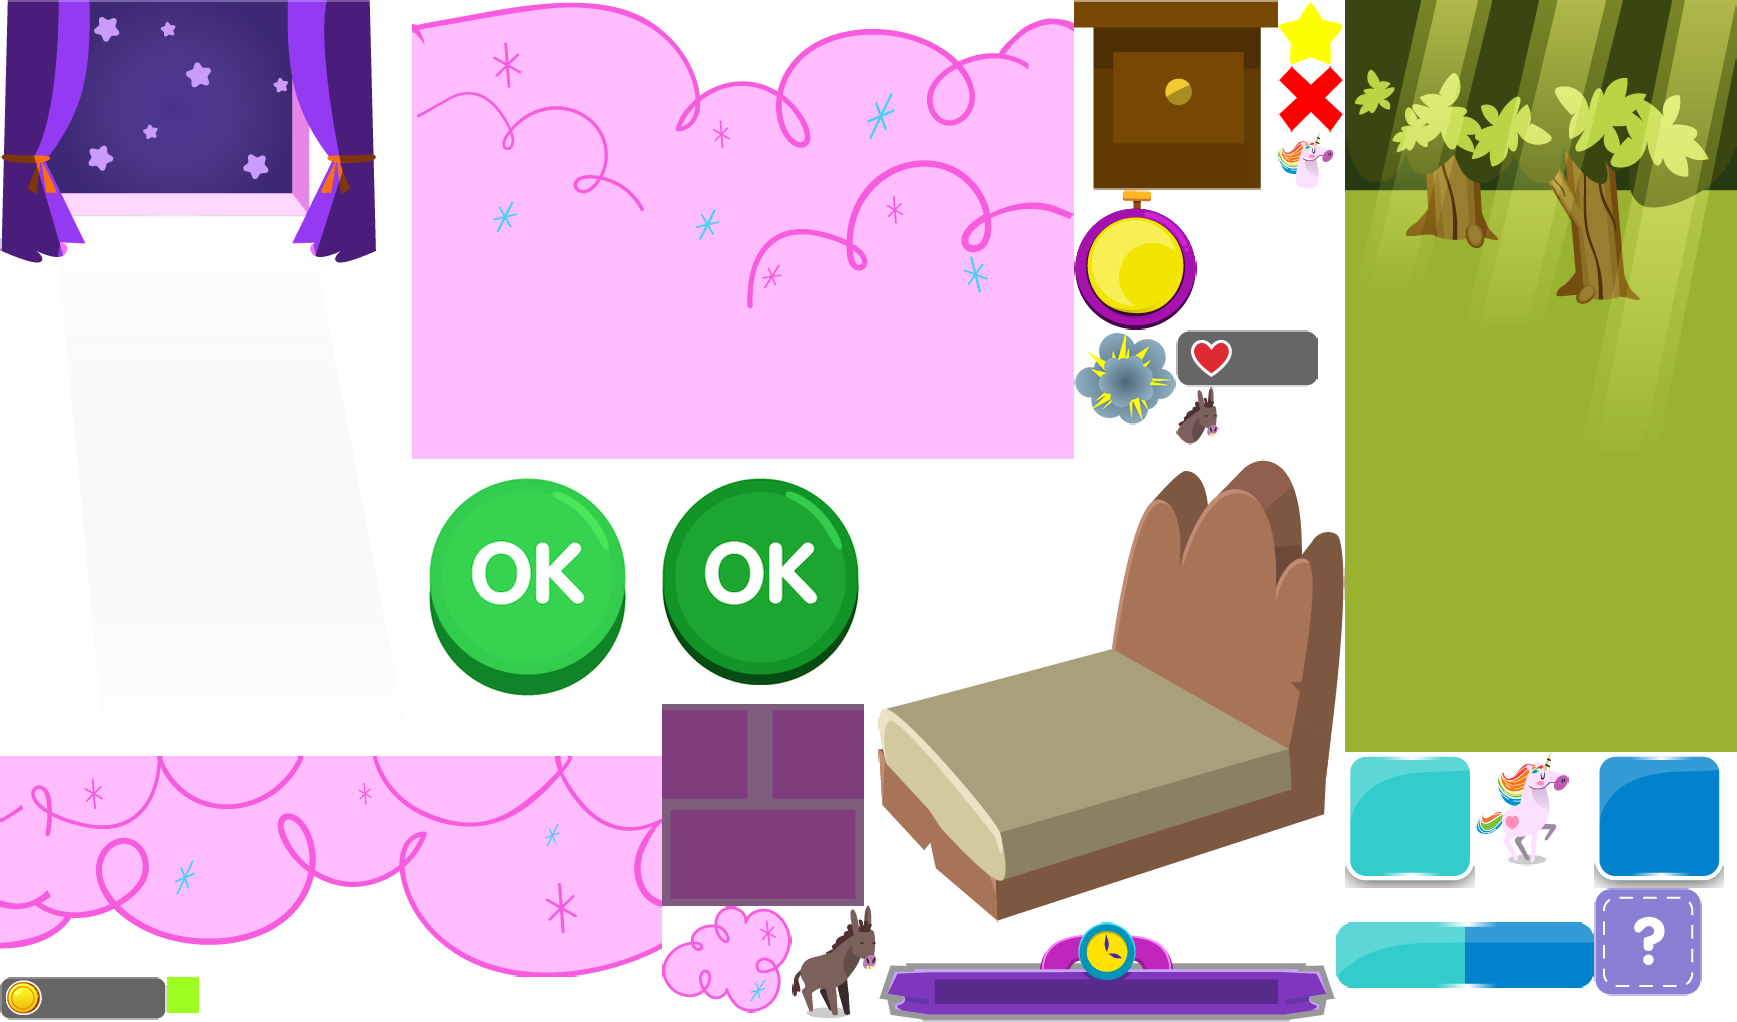
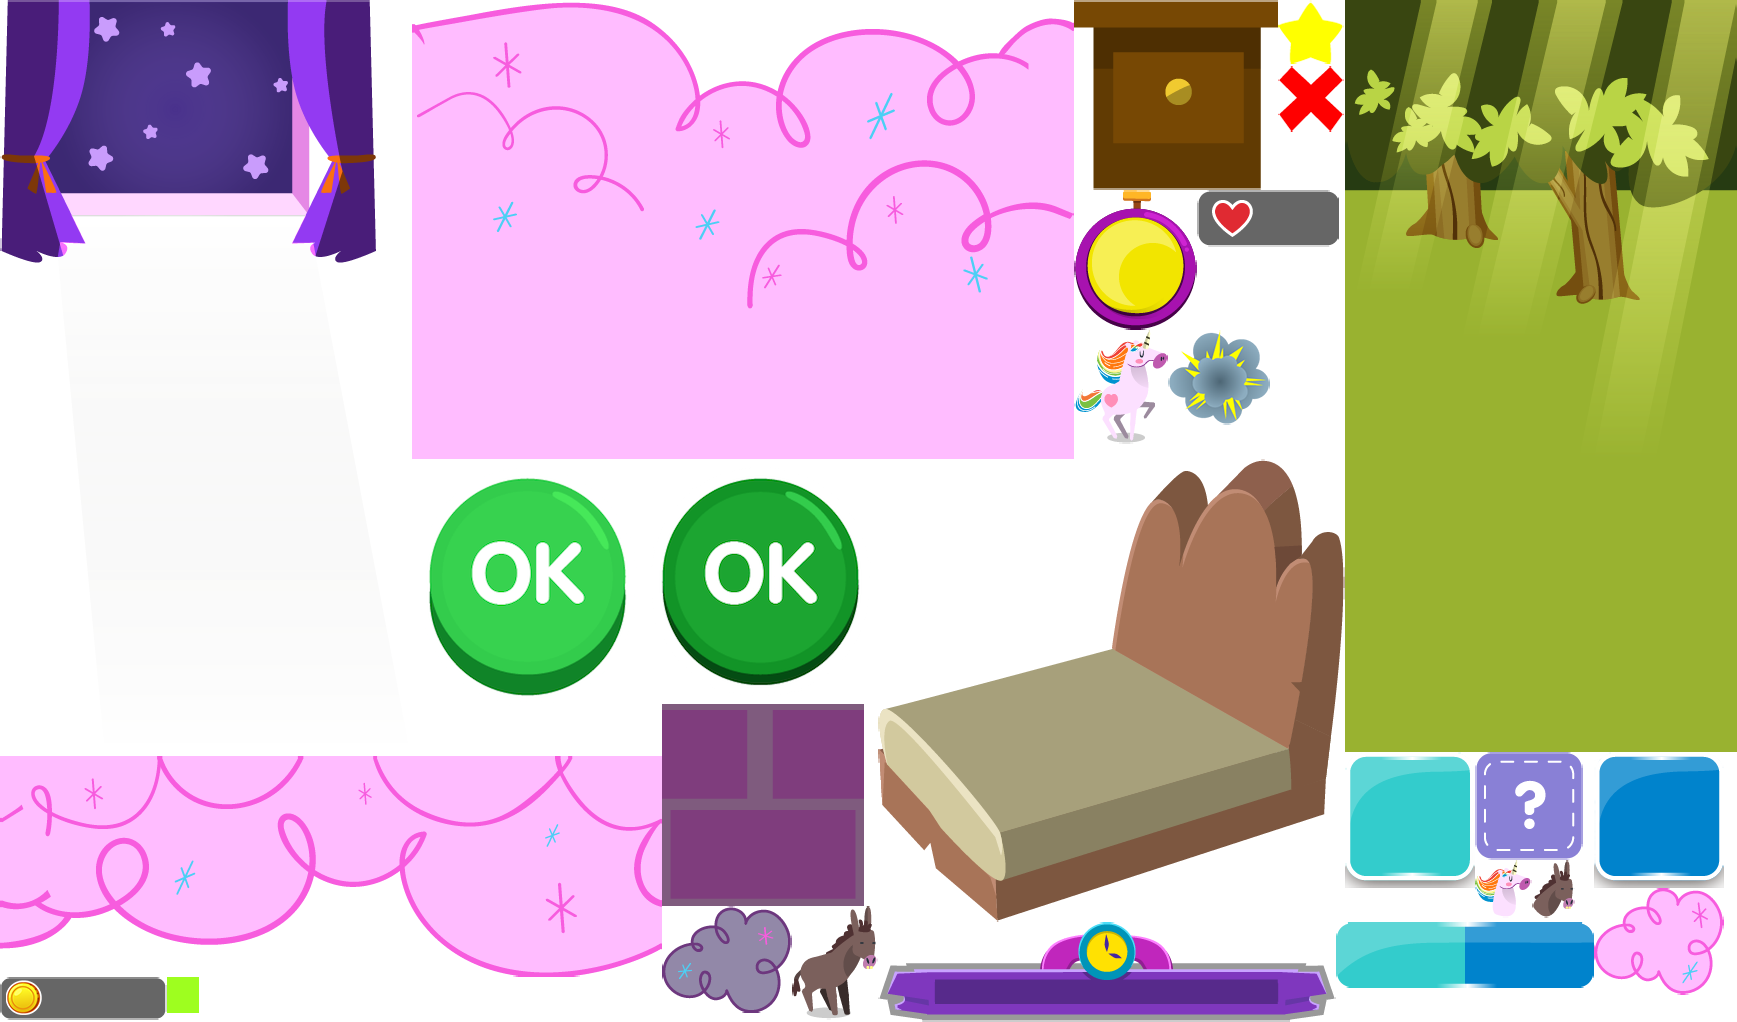
unidream Groups

diff --git a/imagicGames/minigames/uniDream/js/scenes/uni.js b/imagicGames/minigames/uniDream/js/scenes/uni.js
@@ -106,16 +106,6 @@ var uni = function(){
 	var MAX_UNICORNS = 20
 	var MAX_DONKEYS = 20
 
-//	var ROUNDS = [
-//	    {minNumber:3, maxNumber:5},
-//	    {minNumber:5, maxNumber:8},
-//	    {minNumber:5, maxNumber:8, minDonkeys:1, maxDonkeys:3},
-//	    {minNumber:5, maxNumber:9, minDonkeys:1, maxDonkeys:3},
-//	    {minNumber:9, maxNumber:15, minDonkeys:1, maxDonkeys:5},
-//	    {minNumber:15, maxNumber:20},
-//	    {minNumber:12, maxNumber:17, minDonkeys:1, maxDonkeys:3},
-//	    {minNumber:20, maxNumber:20},
-//		{minNumber:9, maxNumber:15, minDonkeys:1, maxDonkeys:5}]
 	
 	var howManyUnicorns;
 	var howManyDonkeys;
@@ -392,28 +382,39 @@ var uni = function(){
 		donkText.text=goalDonk.toString();
 		game.time.events.add(800, function () {
 			
-			if(dificulty>3){
+			if(dificulty>3  && dificulty<=10){
 				startTimer()
-			}
-			
-			dragableUnicorn.inputEnabled=true;
-			dragableUnicorn.input.enableDrag(true);
-			dragableDonkey.inputEnabled=true;
-			dragableDonkey.input.enableDrag(true);
-			dragableUnicorn.input.draggable=true;
-			dragableDonkey.input.draggable=true;
-			if(!tutorial){
+				dragableUnicorn.inputEnabled=true;
+				dragableUnicorn.input.enableDrag(true);
+				dragableDonkey.inputEnabled=true;
+				dragableDonkey.input.enableDrag(true);
+				dragableUnicorn.input.draggable=true;
+				dragableDonkey.input.draggable=true;
 				buttonImg.inputEnabled=true;
 				donkContainer.tint=0xffffff
 				dragableDonkey.tint=0xffffff	
-			}else if(tutorial){
-				dragableDonkey.input.draggable=false;
-				hand.alpha=1;
-				containers.add(hand)
-				hand.x=dragableUnicorn.x+100;
-				hand.y=dragableUnicorn.y+100;
-				handAnimation=game.add.tween(hand).to({x:rectTrigger.x+200,y:rectTrigger.y-100},2000,Phaser.Easing.Linear.In,true).loop(true);
-				
+			}else if(dificulty>10){ 
+				thirdDificulty()
+			}else{
+				dragableUnicorn.inputEnabled=true;
+				dragableUnicorn.input.enableDrag(true);
+				dragableDonkey.inputEnabled=true;
+				dragableDonkey.input.enableDrag(true);
+				dragableUnicorn.input.draggable=true;
+				dragableDonkey.input.draggable=true;
+				if(!tutorial){
+					buttonImg.inputEnabled=true;
+					donkContainer.tint=0xffffff
+					dragableDonkey.tint=0xffffff	
+				}else if(tutorial){
+					dragableDonkey.input.draggable=false;
+					hand.alpha=1;
+					containers.add(hand)
+					hand.x=dragableUnicorn.x+100;
+					hand.y=dragableUnicorn.y+100;
+					handAnimation=game.add.tween(hand).to({x:rectTrigger.x+200,y:rectTrigger.y-100},2000,Phaser.Easing.Linear.In,true).loop(true);
+
+				}
 			}
 		})
 	}
@@ -738,6 +739,7 @@ var uni = function(){
 			}
 		})
 			game.add.tween(brightRect).to({alpha:1},exitSpeed-1000,Phaser.Easing.linear,true).yoyo(true);
+		
 			game.time.events.add(exitSpeed+200,function(){
 				for(var destroyAnimals=0; destroyAnimals<animalsInStage.length; destroyAnimals++){
 					animalsInStage[destroyAnimals].destroy();
@@ -755,42 +757,53 @@ var uni = function(){
 		for(var fill=0; fill<manyAnimals; fill++){
 			
 			animal=game.rnd.integerInRange(0,1);
-			if(animal)
+			if(animal==0){
+				var unicorn=createSpine("unicorn","normal")
+				animalsInStage.push(unicorn);
+				animalsInStage[fill].tag="uni";
+			}else if(animal==1){
+				var donkey=createSpine("donkey","normal")
+				animalsInStage.push(donkey);
+				animalsInStage[fill].tag="donkey";
+			}
+			animalsInStage[fill].scale.setTo(0.7,0.7);
+			this.rect = new Phaser.Graphics(game);
+			this.rect.beginFill('#000000', 0);
+			this.rect.drawRect(0, 0, 90, 90);
+			this.rect.endFill();
+			animalsInStage[fill].x=-200;
+			animalsInStage[fill].y=positionY[fill];
 			
-			animalsInStage.push(unicorn);
-			animalsInStage[fill]=
+			animalsInStage[fill].container= this.game.add.image(animalsInStage[fill].x-50, animalsInStage[fill].y-100);
 			animalsInStage[fill].container.addChild(this.rect);
 			animalsInStage[fill].container.index=fill;
 			animalsInStage[fill].container.inputEnabled=true;
 			animalsInStage[fill].container.events.onInputDown.add(discardAnimal,this);
+			animalsInStage[fill].setAnimation(["jump"]);
+			
+			sound.play("horse_gallop")
+			game.add.tween(animalsInStage[fill]).to({x:positionX[fill],y:positionY[fill]}, 1500, Phaser.Easing.Cubic.InOut, true)
+			game.add.tween(animalsInStage[fill].container).to({x:positionX[fill]-50,y:positionY[fill]-100}, 1500, Phaser.Easing.Cubic.InOut, true)
+			
+			
+			dreamGroup.add(animalsInStage[fill]);
 		}
-			
-			var index=animalsInStage.length;
-		if(animalsInStage.length<maxNumber){
-			sound.play("place")
-			if(obj.tag=="uni"){
-				var unicorn=createSpine("unicorn","normal")
-				
-				unicorn.scale.setTo(0.7,0.7);
-				animalsInStage[index].tag="uni";
-			}else if(obj.tag=="donk"){
-				var donkey=createSpine("donkey","normal")
-				animalsInStage.push(donkey);
-				animalsInStage[index].tag="donkey";
-				donkey.scale.setTo(0.7,0.7);
+		game.time.events.add(1550, function () {
+			buttonImg.inputEnabled=true;
+			for(var idle=0; idle<animalsInStage.length; idle++){
+				animalsInStage[idle].setAnimation(["idle"]);
 			}
-			
-			
-				
-			animalsInStage[index].container.addChild(this.rect);
-			animalsInStage[index].container.index=index;
-			if(!tutorial){
-				animalsInStage[index].container.inputEnabled=true;
-				animalsInStage[index].container.events.onInputDown.add(discardAnimal,this);
-			}
-			dreamGroup.add(animalsInStage[index]);
-			dreamGroup.add(nubesAparecer[index]);
-		}
+			dragableUnicorn.inputEnabled=true;
+			dragableUnicorn.input.enableDrag(true);
+			dragableDonkey.inputEnabled=true;
+			dragableDonkey.input.enableDrag(true);
+			dragableUnicorn.input.draggable=true;
+			dragableDonkey.input.draggable=true;
+			buttonImg.inputEnabled=true;
+			donkContainer.tint=0xffffff
+			dragableDonkey.tint=0xffffff
+			startTimer()
+		})
 	}
 	
 	function createUniUI() {
@@ -1066,13 +1079,15 @@ var uni = function(){
 				animalsInStage.push(unicorn);
 				unicorn.scale.setTo(0.7,0.7);
 				animalsInStage[index].tag="uni";
+				nubesAparecer[index]=game.add.sprite(positionX[index],positionY[index],"atlas.uni","cloud_small");
 			}else if(obj.tag=="donk"){
 				var donkey=createSpine("donkey","normal")
 				animalsInStage.push(donkey);
 				animalsInStage[index].tag="donkey";
 				donkey.scale.setTo(0.7,0.7);
+				nubesAparecer[index]=game.add.sprite(positionX[index],positionY[index],"atlas.uni","cloud_donk");
 			}
-			nubesAparecer[index]=game.add.sprite(positionX[index],positionY[index],"atlas.uni","cloud_small");
+			
 			nubesAparecer[index].scale.setTo(0,0);
 			nubesAparecer[index].anchor.setTo(0.5,0.8);
 			game.add.tween(nubesAparecer[index].scale).to({x: 1,y:1}, 10, Phaser.Easing.Cubic.InOut, true)
@@ -1102,7 +1117,7 @@ var uni = function(){
 			}
 			animalsInStage[index].x=positionX[index];
 			animalsInStage[index].y=positionY[index];
-			animalsInStage[index].container= this.game.add.image(animalsInStage[index].x-50, animalsInStage[index].y-100);;
+			animalsInStage[index].container= this.game.add.image(animalsInStage[index].x-50, animalsInStage[index].y-100);
 			this.rect = new Phaser.Graphics(game);
 			this.rect.beginFill('#000000', 0);
 			this.rect.drawRect(0, 0, 90, 90);

diff --git a/newStructure/minigames/uniDream/js/scenes/uni.js b/newStructure/minigames/uniDream/js/scenes/uni.js
@@ -137,6 +137,7 @@ var uni = function(){
 	var total=20;
 	var timeValue
 	var coins
+	var buro
 	var buttonImg
 	var rectTrigger
 	var quantNumber
@@ -149,6 +150,7 @@ var uni = function(){
 	var donkIco
 	var handAnimation
 	var unicornList
+	var clockImg
 	var donkeyList
 	var animationText
 	var gameGroup
@@ -422,7 +424,6 @@ var uni = function(){
 	function missPoint(){
 
 		sound.play("wrong")
-
 		lives--;
 		heartsGroup.text.setText('X ' + lives)
 
@@ -489,6 +490,12 @@ var uni = function(){
 		game.add.tween(donkText).to({alpha:1}, 800, Phaser.Easing.Linear.In, true,1200)
 		game.add.tween(uniText).to({alpha:1}, 800, Phaser.Easing.Linear.In, true,1200)
 		showDream.onComplete.add(function () {
+			dreamGroup.add(bed)
+			dreamGroup.add(buro)
+			dreamGroup.add(clockCounter)
+			dreamGroup.add(buttonImg)
+			dreamGroup.add(theffanie)
+			
 			sound.play("brightTransition")
 			game.add.tween(dreamGroup.bright).to({alpha: 1},1000,Phaser.Easing.Cubic.Out,true).yoyo(true)
 			var bgAppear = game.add.tween(dreamGroup.bg).to({alpha:1}, 1000, Phaser.Easing.Cubic.In, true)
@@ -710,13 +717,18 @@ var uni = function(){
 		if(goalUni==countUni && goalDonk==countDonk && !timer){
 			rightReaction();
 		}else{
-			missPoint();
+			if(lives>0)missPoint();
 			timer=false;
 			sceneGroup.wrongParticle.x = clockCounter.centerX
 			sceneGroup.wrongParticle.y = clockCounter.centerY
 			sceneGroup.wrongParticle.start(true, 1000, null, 5)
 			if(lives==0){
 				wrongReaction();
+				sceneGroup.add(bed)
+				sceneGroup.add(buro)
+				sceneGroup.add(clockCounter)
+				sceneGroup.add(buttonImg)
+				sceneGroup.add(theffanie)
 			}else{
 				//theffanie.setAnimation("NIGHTMARE")
 				game.time.events.add(700, function () {
@@ -891,7 +903,7 @@ var uni = function(){
 		dreamGroup.add(uniText)
 		dreamGroup.add(donkText)
 		
-		var buro = sceneGroup.create(0,0,"atlas.uni", "buro")
+		buro = sceneGroup.create(0,0,"atlas.uni", "buro")
 		buro.x = game.world.centerX + 170
 		buro.y = game.world.height
 		buro.anchor.setTo(0.5, 1)
@@ -918,7 +930,7 @@ var uni = function(){
 		
 		
 
-		var clockImg = clockCounter.create(0,0,"atlas.uni","clockImg")
+		clockImg = clockCounter.create(0,0,"atlas.uni","clockImg")
 		clockImg.anchor.setTo(0.5, 0.5)
 		game.add.tween(clockImg.scale).to({x:1.05, y:0.95}, 300, Phaser.Easing.Sinusoidal.Out, true).yoyo(true).loop(true)
 
@@ -931,19 +943,24 @@ var uni = function(){
 		clockCounter.numberText = numberText
 		clockCounter.number = 0
 		clockCounter.alpha=1;
-		var button = game.add.group()
-		button.x = clockCounter.x
-		button.y = clockCounter.y+5
-		sceneGroup.add(button)
+//		var button = game.add.group()
+//		button.x = clockCounter.x
+//		button.y = clockCounter.y+5
+//		sceneGroup.add(button)
 
-		buttonImg = button.create(0,0,"atlas.uni", "rdyButton")
+		buttonImg = clockCounter.create(0,0,"atlas.uni", "rdyButton")
 		buttonImg.inputEnabled=false;
 		buttonImg.events.onInputDown.add(checkGoal)
 		buttonImg.anchor.setTo(0.5, 0.5)
-		button.alpha = 1	
+		buttonImg.alpha = 1	
 		buttonImg.scale.setTo(0.4, 0.4)
+		clockCounter.add(buttonImg)
+		buttonImg.x = clockCounter.x
+		buttonImg.y = clockCounter.y+5
+		clockCounter.bringToTop(buttonImg)
 		
-		game.add.tween(button.scale).to({x:1.05, y:0.95}, 300, Phaser.Easing.Sinusoidal.Out, true).yoyo(true).loop(true)
+		
+		game.add.tween(buttonImg.scale).to({x:0.45, y:0.35}, 300, Phaser.Easing.Sinusoidal.Out, true).yoyo(true).loop(true)
 
 		var fontStyle2 = {font: "48px VAGRounded", fontWeight: "bold", fill: "#ffffff", align: "center"}
 		
@@ -952,8 +969,8 @@ var uni = function(){
 		uniContainer=game.add.sprite(0,-20,"atlas.uni","buttonUni");
 		dragableUnicorn=game.add.sprite(uniContainer.x+10,uniContainer.y,"atlas.uni","buttonImgU");
 		dragableUnicorn.tag="uni";
-		containers.add(uniContainer);
-		containers.add(dragableUnicorn);
+		
+		
 		dragableUnicorn.events.onDragStart.add(onDragStart, this);
 		dragableUnicorn.events.onDragStop.add(onDragStop, this);
 		
@@ -962,11 +979,15 @@ var uni = function(){
 		dragableDonkey.tag="donk";
 		donkContainer.tint=0x555555
 		dragableDonkey.tint=0x555555	
-		containers.add(donkContainer);
-		containers.add(dragableDonkey);
+		
+
 		dragableDonkey.events.onDragStart.add(onDragStart, this);
 		dragableDonkey.events.onDragStop.add(onDragStop, this);
 		
+		containers.add(donkContainer);
+		containers.add(uniContainer);
+		containers.add(dragableUnicorn);
+		containers.add(dragableDonkey);
 		var correctParticle = createPart("star")
 		sceneGroup.correctParticle = correctParticle
 
@@ -1002,6 +1023,11 @@ var uni = function(){
 	
 	function onDragStart(obj, pointer) {
 		sound.play("drag")
+		if(obj.tag=="uni"){
+			containers.bringToTop(dragableUnicorn);
+		}else{
+			containers.bringToTop(dragableDonkey);
+		}
 		//inputsEnabled=false;
 		var option = obj.parent
 		option.inBottom = false
@@ -1012,6 +1038,7 @@ var uni = function(){
 		option.startY = (obj.world.y - gameGroup.y - obj.originalY)
 		
 		dreamGroup.bringToTop(option)
+
 	}
 	function checkOverlap(spriteA, spriteB) {
 
